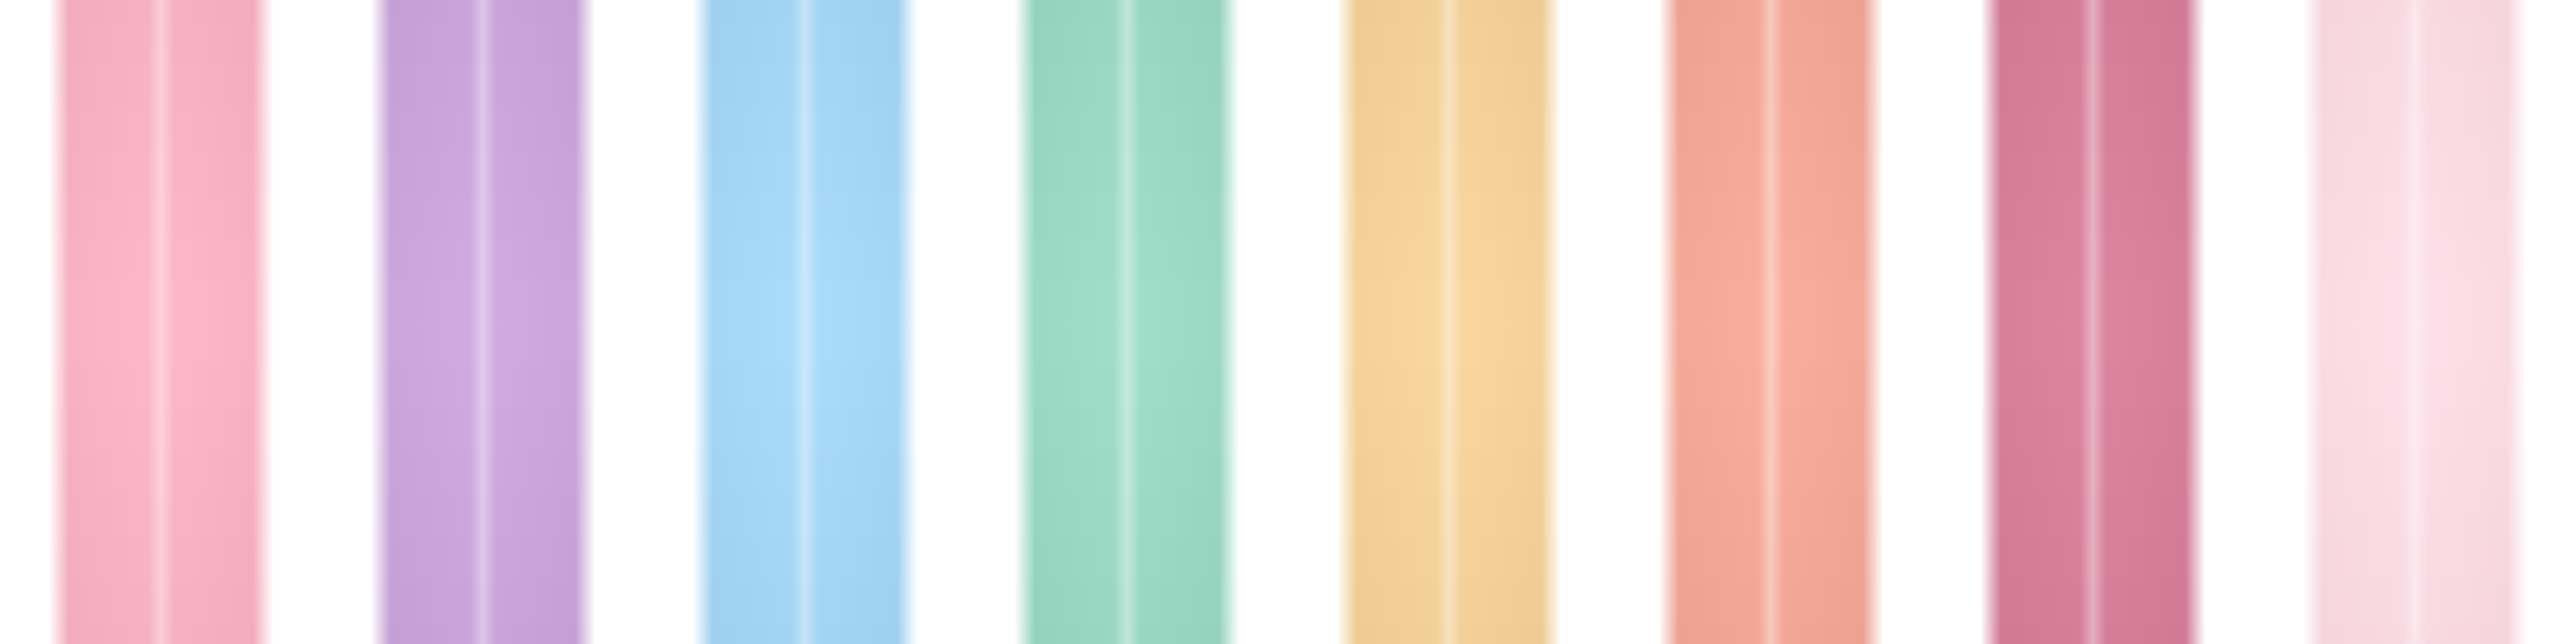
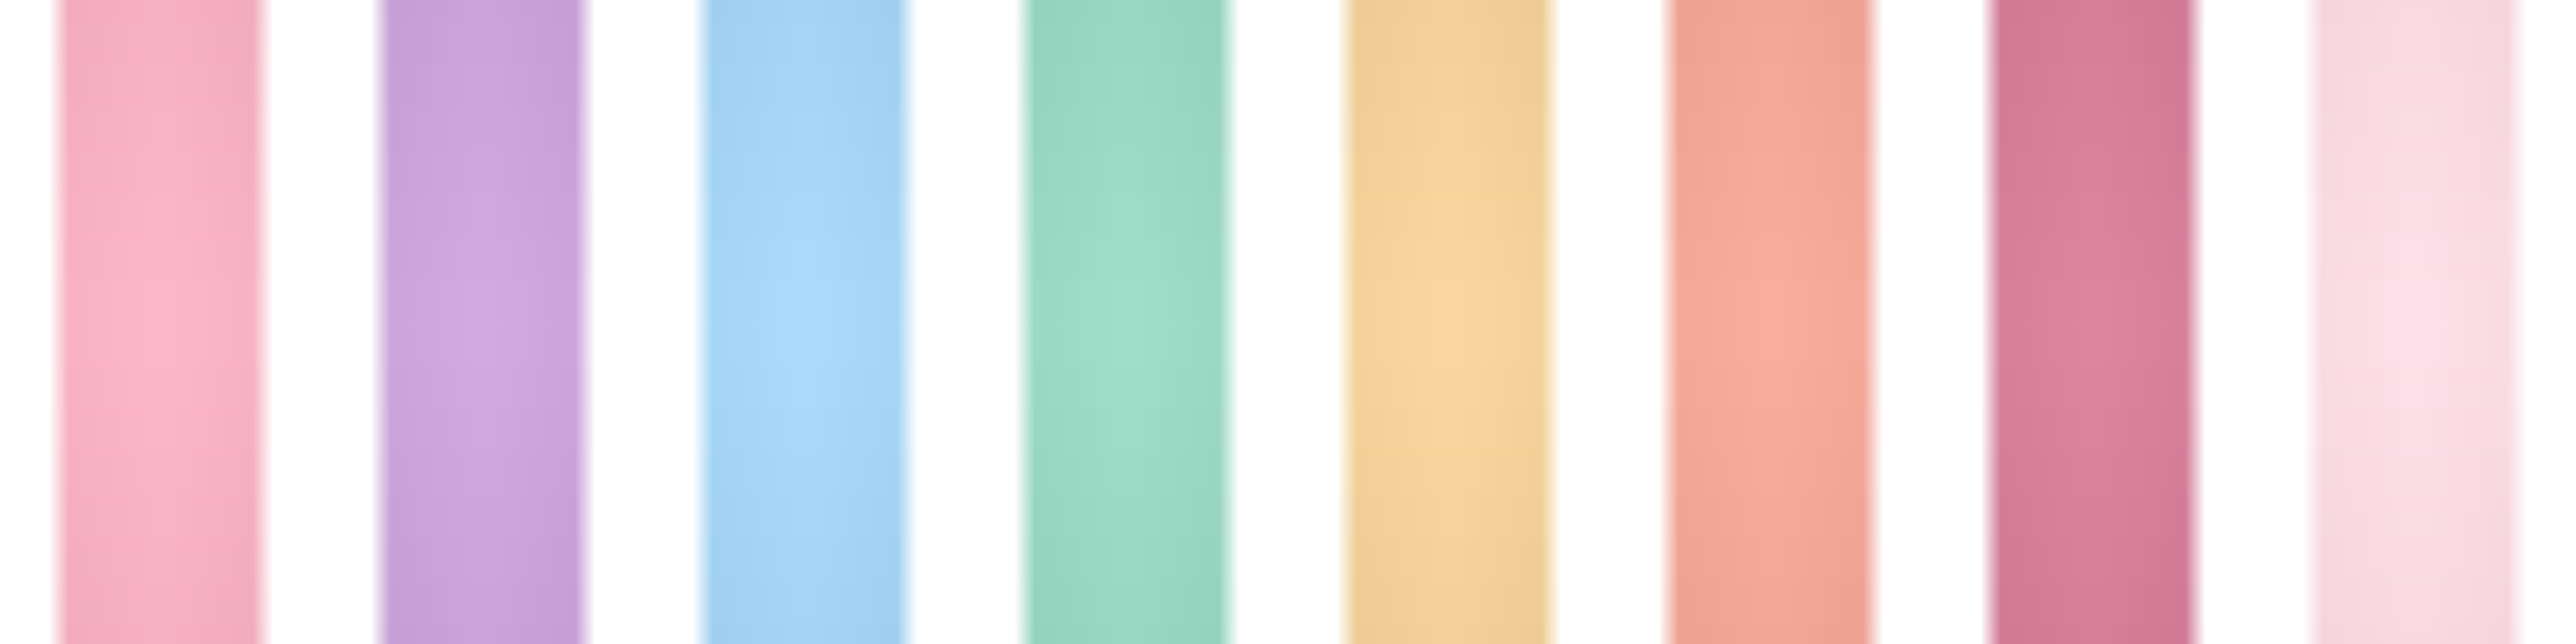
fix: 홀드몸통 가운데 하이라이트 줄 제거 + 캐시 부스트

diff --git a/index.html b/index.html
@@ -13,7 +13,7 @@
 <script>
 // ★ 빌드 타임스탬프 — 매 index.html 업데이트 시 자동 증가. 업데이트 감지용.
 // diag: gamble revert + 업데이트 감지 진단 강화 (__BUILD_TS 선곡화면 노출)
-window.__BUILD_TS = 20260421044500;
+window.__BUILD_TS = 20260421045500;
 // ★ resumeAudio 탭당 오버헤드 제거 — audioSession 재설정 skip, applyBgmVol 변경시만
 (function(){
   try {

diff --git a/scripts/generate_hold_body_from_notes.py b/scripts/generate_hold_body_from_notes.py
@@ -26,8 +26,7 @@ N_CELLS = 8
 # pill 설정
 PILL_W_RATIO = 0.7       # pill 폭 = 셀 폭의 70%
 EDGE_FADE_PX = 25        # 좌우 rounded edge fade 거리
-HIGHLIGHT_W_RATIO = 0.12 # 중앙 하이라이트 줄 폭 (pill 폭 대비)
-HIGHLIGHT_ALPHA = 100    # 하이라이트 투명도 (0-255)
+# 중앙 하이라이트 줄 제거 (유저 피드백)
 
 src = Image.open(SRC_NOTE).convert('RGBA')
 src_a = np.array(src)
@@ -78,22 +77,6 @@ for i in range(N_CELLS):
             g_p = int(g * (1 - edge_v * 0.15) + deep[1] * edge_v * 0.15)
             b_p = int(b * (1 - edge_v * 0.15) + deep[2] * edge_v * 0.15)
             canvas[py, px] = [r_p, g_p, b_p, edge_alpha]
-
-        # 중앙 하이라이트 줄 (white, 은은)
-        hl_w = int(pill_w * HIGHLIGHT_W_RATIO)
-        hl_x0 = pill_x0 + (pill_w - hl_w) // 2
-        for px_local in range(hl_w):
-            px = hl_x0 + px_local
-            # soft 중앙 fade
-            hl_v = 1.0 - abs(px_local - hl_w / 2) / (hl_w / 2)
-            hl_a = int(HIGHLIGHT_ALPHA * hl_v)
-            # 현재 pill 색 위에 white 반투명 블렌드
-            cr, cg, cb, ca = canvas[py, px]
-            if ca > 0:
-                blend_a = hl_a / 255.0
-                canvas[py, px, 0] = int(cr * (1 - blend_a) + 255 * blend_a)
-                canvas[py, px, 1] = int(cg * (1 - blend_a) + 255 * blend_a)
-                canvas[py, px, 2] = int(cb * (1 - blend_a) + 255 * blend_a)
 
     print(f'[{i+1}] flower color = #{fr:02x}{fg:02x}{fb:02x}, pill {pill_w}×{BODY_CELL_H}')
 
